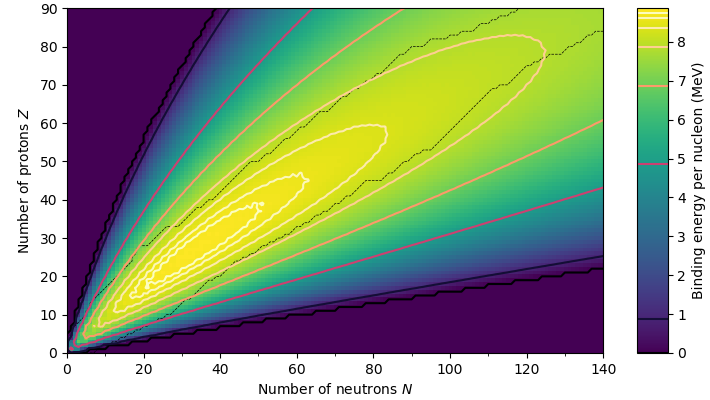
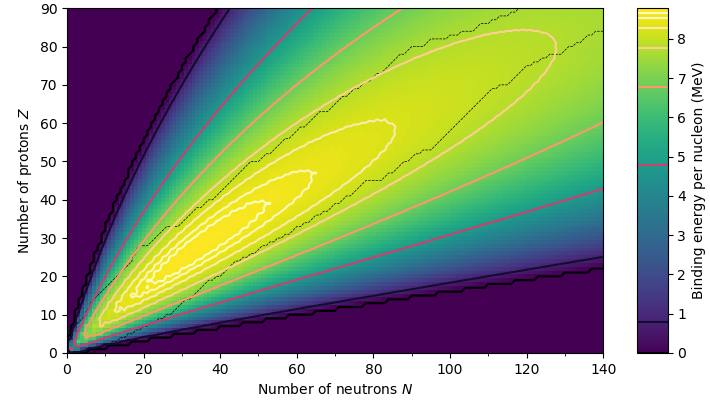
Fix Z(Z-1) to Z² to fit parameters
Technically the incorrect formula, but the differences become incredibly large, and I don't want to spend my 2am doing 4-dimensional regression analysis tyvm

diff --git a/data.py b/data.py
@@ -23,7 +23,7 @@ def binding_per_nucleon(N, Z):
     A = Z + N
     sgn = 0 if A % 2 else (-1 if Z % 2 else +1)
     return ( aV - aS / A**(1/3)
-                - aC * Z*(Z-1) / A**(4/3)
+                - aC * Z**2 / A**(4/3)
                 - aA * (A-2*Z)**2/A**2
                 + delta0 * sgn/A**(3/2)
     )
